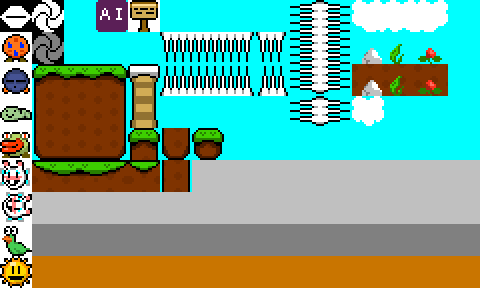
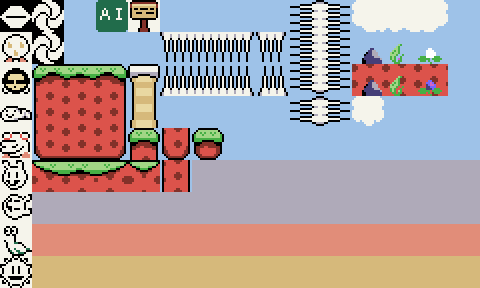
- added and began using palette - implemented slam/stun animations - created SlamAttack class that ends when player hits ground - minor tweaks to state handling, ending attacks properly, and displaying collision boxes

diff --git a/src/actors/player.js b/src/actors/player.js
@@ -1,14 +1,14 @@
-define("Player", ['Actor', 'Tile', 'Prop', 'Enemy', 'Point', 'ParticleSystem', 'ActorController', 'Attack'], 
-    function (Actor, Tile, Prop, Enemy, Point, ParticleSystem, ActorController, Attack) {
+define("Player", ['Actor', 'Tile', 'Prop', 'Enemy', 'Point', 'ParticleSystem', 'ActorController', 'Attack', 'SlamAttack'], 
+    function (Actor, Tile, Prop, Enemy, Point, ParticleSystem, ActorController, Attack, SlamAttack) {
 
     class Player extends Actor {
 
         constructor() {
             var playerSpriteData = {
                 "spriteImage": gameAssets["Player"],
-                "spriteCollision": new Point(20, 28),
-                "spriteSize": new Point(32, 36),
-                "spritePosition": new Point(6, 8)
+                "spriteCollision": new Point(24, 30),
+                "spriteSize": new Point(40, 44),
+                "spritePosition": new Point(8, 10)
             };
             super(playerSpriteData["spriteCollision"], playerSpriteData);
 
@@ -31,10 +31,10 @@ define("Player", ['Actor', 'Tile', 'Prop', 'Enemy', 'Point', 'ParticleSystem', '
 
             this.initInteractionElements();
 
-            this.addHitbox(null, 24, -8, 10, 36, this.location);
-            this.addHurtbox(null, 0, 0, 20, 28, this.location);
+            // this.addHitbox(null, 24, -8, 10, 36, this.location);
+            this.addHurtbox(null, 4, 4, 18, 24, this.location);
 
-            this.aerialAttack = new Attack("", "aerialMain", "aerialRecovery");
+            this.aerialAttack = new SlamAttack("", "aerialMain", "aerialRecovery");
 
             this.currentAttack = null;
         }
@@ -44,17 +44,20 @@ define("Player", ['Actor', 'Tile', 'Prop', 'Enemy', 'Point', 'ParticleSystem', '
                 "frames": {"width": this.spriteSize.X, "height": this.spriteSize.Y, "regX": 0, "regY": 0, "count": 208},
                 animations: {
                     right: [0, 2, "right", .1],
-                    left: [7, 9, "left", .1],
+                    left: [3, 5, "left", .1],
 
-                    rightWalk: [14, 17, "rightWalk", .1],
-                    leftWalk: [21, 24, "leftWalk", .1],
+                    rightWalk: [6, 9, "rightWalk", .1],
+                    leftWalk: [12, 15, "leftWalk", .1],
                     
-                    rightJump: 28, rightFall: 29,
-                    leftJump: 30, leftFall: 31,
+                    leftJum: 18, rightJump: 19,
+                    leftFall: 20, rightFall: 21,
 
-                    leftDeath: [63, 66, "finished", .2], rightDeath: [63, 66, "finished", .2],
+                    leftDeath: [24, 27, "finished", .2], rightDeath: [24, 27, "finished", .2],
+
+                    leftSlam: [30, 34, "leftSlam", .25], rightSlam: [30, 34, "rightSlam", .25],
+                    leftSlamStun: [36, 37, "leftSlamStun", .1], rightSlamStun: [38, 39, "rightSlamStun", .1],
                     
-                    finished: 4
+                    finished: 11
                 }
             });
 
@@ -170,6 +173,7 @@ define("Player", ['Actor', 'Tile', 'Prop', 'Enemy', 'Point', 'ParticleSystem', '
                 this.setControllerState();
         }
         enactNewState() {
+            // console.log(this.priorOrientation + ", " + this.orientation + "  -  " + this.priorState + ", " + this.state);
             if (this.priorOrientation !== this.orientation || this.priorState !== this.state) {
                 this.priorOrientation = this.orientation;
                 this.priorState = this.state;
@@ -203,7 +207,6 @@ define("Player", ['Actor', 'Tile', 'Prop', 'Enemy', 'Point', 'ParticleSystem', '
             this.goingUp = true;
 
             this.jumpHeld = true;
-
         }
         jumpRelease() {
             this.goingUp = false;
@@ -408,8 +411,11 @@ define("Player", ['Actor', 'Tile', 'Prop', 'Enemy', 'Point', 'ParticleSystem', '
             if (this.respawnStatus >= 0)
                 return;
             
-            if (this.currentAttack)
-                this.currentAttack.endAttack();
+            if (this.currentAttack) {
+                this.currentAttack.endAttack(this);
+                this.currentController.reset();
+                this.currentAttack = null;
+            }
 
             this.respawnStatus = 0;
             this.state = "Death";

diff --git a/src/actors/actor.js b/src/actors/actor.js
@@ -15,7 +15,7 @@ function(       GameObject, Point, CollisionBox, ActorController) {
             this.onGround = false;
             
             this.priorOrientation = "";
-            this.orientation = "down";
+            this.orientation = "right";
             this.state = "";
             this.priorState = "";
 
@@ -23,6 +23,7 @@ function(       GameObject, Point, CollisionBox, ActorController) {
             this.defaultController = new ActorController(controllerData["default"]);
             this.currentController = this.defaultController;
 
+            this.displayCollision = false;
             this.particleEffects = [];
             this.hitBoxes = [];
             this.hurtBoxes = [];
@@ -218,11 +219,10 @@ function(       GameObject, Point, CollisionBox, ActorController) {
                 var hitbox = new CollisionBox(true, x, y, width, height);
                 hitbox.origin = origin;
             }
+            hitbox.setVisible(this.displayCollision);
 
             this.hitBoxes.push(hitbox);
-            
-            if (hitbox.testShape)
-                this.spriteContainer.addChild(hitbox.testShape);
+            this.spriteContainer.addChild(hitbox.collisionDisplay);
         }
         addHurtbox(hurtboxObj, x, y, width, height, origin) {
             var hurtbox;
@@ -233,29 +233,28 @@ function(       GameObject, Point, CollisionBox, ActorController) {
                 var hurtbox = new CollisionBox(false, x, y, width, height);
                 hurtbox.origin = origin;
             }
+            hurtbox.setVisible(this.displayCollision);
 
             this.hurtBoxes.push(hurtbox);
-
-            if (hurtbox.testShape)
-                this.spriteContainer.addChild(hurtbox.testShape);
+            this.spriteContainer.addChild(hurtbox.collisionDisplay);
         }
         removeHitbox(hitbox) {
             var i = this.hitBoxes.indexOf(hitbox);
             if (i >= 0)
                 this.hitBoxes.splice(i, 1);
 
-            if (this.spriteContainer.contains(hitbox.testShape))
-                this.spriteContainer.removeChild(hitbox.testShape);
+            this.spriteContainer.removeChild(hitbox.collisionDisplay);
         }
         removeHurtbox(hurtbox) {
             var i = this.hurtBoxes.indexOf(hurtbox);
             if (i >= 0)
                 this.hurtBoxes.splice(i, 1);
 
-            if (this.spriteContainer.contains(hurtbox.testShape))
-                this.spriteContainer.removeChild(hurtbox.testShape);
+            this.spriteContainer.removeChild(hurtbox.collisionDisplay);
         }
         toggleHitboxDisplays() {
+            this.displayCollision = !this.displayCollision;
+
             this.hitBoxes.forEach((hitbox) => {
                 hitbox.toggleDisplay();
             });

diff --git a/src/gameObjects/collisionBox.js b/src/gameObjects/collisionBox.js
@@ -8,9 +8,10 @@ define("CollisionBox", ['Point'], function(Point) {
             this.size = new Point(width, height);
             this.origin = new Point(0, 0);
 
-            this.testShape = new createjs.Shape();
-            this.testShape.graphics.beginFill(this.type == "hitBox" ? "#dd0000" : "#333333").drawRect(x, y, width, height);
-            this.testShape.alpha = 0;
+            this.collisionDisplay = new createjs.Shape();
+            this.collisionDisplay.graphics.beginFill(this.type == "hitBox" ? "#dd0000" : "#333333").drawRect(x, y, width, height);
+            this.collisionDisplay.alpha = 0;
+            this.isVisible = false;
         }
 
         get() {
@@ -71,7 +72,12 @@ define("CollisionBox", ['Point'], function(Point) {
         }
 
         toggleDisplay() {
-            this.testShape.alpha = this.testShape.alpha > 0 ? 0 : 0.5;
+            this.collisionDisplay.alpha = this.collisionDisplay.alpha > 0 ? 0 : 0.5;
+            this.isVisible = !this.isVisible;
+        }
+        setVisible(v) {
+            this.collisionDisplay.alpha = v ? 0.5 : 0;
+            this.isVisible = v;
         }
 
     }

diff --git a/src/dependencies.js b/src/dependencies.js
@@ -9,7 +9,6 @@ require.config({
 
       "tile": "src/levels/tile",
       "actor": "src/actors/actor",
-      "attack": "src/actors/attack",
       "prop": "src/props/prop",
       "transition": "src/levels/transition",
 
@@ -26,6 +25,9 @@ require.config({
       "enemy": "src/actors/enemy",
       "player": "src/actors/player",
 
+      "attack": "src/action/attack",
+      "slamAttack": "src/action/slamAttack",
+
       "level": "src/levels/level",
       "levelParser": "src/levels/levelParser",
       "game": "src/game"
@@ -38,7 +40,7 @@ requirejs(['point'], function() {
 
         requirejs(['tile', 'actor', 'attack', 'prop', 'transition', 'particleSystem', 'dialogueBox'], function() {
 
-            requirejs(['switchProp', 'triggerProp', 'enemy'], function() {
+            requirejs(['switchProp', 'triggerProp', 'enemy', 'slamAttack'], function() {
 
                 requirejs(['player', 'objectFactory'], function() {
 

diff --git a/src/action/slamAttack.js b/src/action/slamAttack.js
@@ -1,0 +1,30 @@
+define("SlamAttack", ['Attack', 'CollisionBox', 'ActorController'], function(Attack, CollisionBox, ActorController) {
+    
+    class SlamAttack extends Attack {
+
+        constructor(startUpKey, mainKey, recoveryKey) {
+            super(startUpKey, mainKey, recoveryKey);
+        }
+        
+        updateAttack(hostActor) {
+            
+            if (this.currentPhase ? this.currentPhase.isFinished() : true) {
+                this.progressAttack(hostActor);
+                if (!this.active)
+                    return false;
+            }
+
+            if (this.currentPhase === this.mainPhase && hostActor.onGround) {
+                this.progressAttack(hostActor);
+            }
+
+            this.currentPhase.updatePhase();
+
+            return true;
+        }
+
+    }
+
+    return SlamAttack;
+
+});

diff --git a/src/action/attack.js b/src/action/attack.js
@@ -121,6 +121,7 @@ define("Attack", ['CollisionBox', 'ActorController'], function(CollisionBox, Act
             }
             if (this.hitboxes) {
                 this.hitboxes.forEach((hitbox) => {
+                    console.log(hitbox);
                     hostActor.addHitbox(hitbox);
                 });
             }
